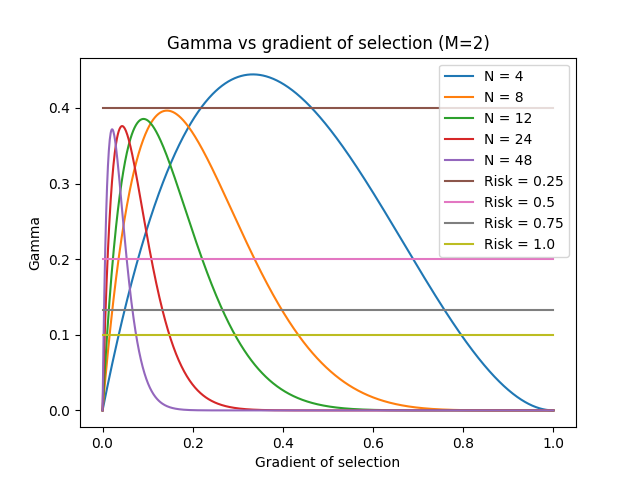
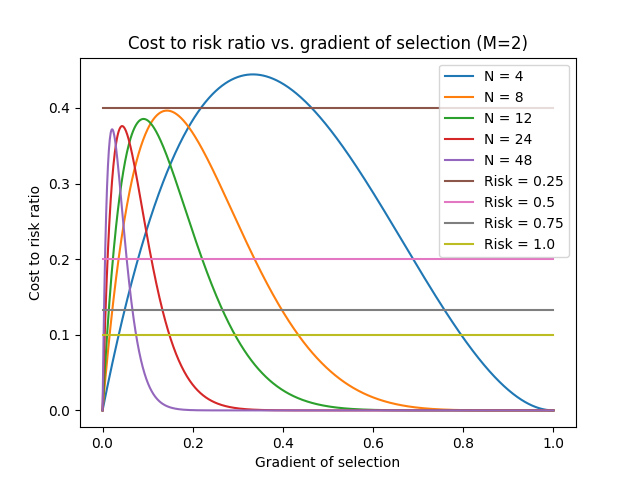
vs gamma

Changed region(s): [[0.1875, 0.0625, 0.8125, 0.125], [0.0312, 0.375, 0.0625, 0.625]]

diff --git a/main.py b/main.py
@@ -686,8 +686,8 @@ def evolution_gamma_with_gradient_of_selection(game = "SH", mode = "N=6"):
 
     plt.legend()
     plt.xlabel('Gradient of selection')
-    plt.ylabel('Gamma')
-    plt.title(f'Gamma vs gradient of selection ({mode})')
+    plt.ylabel('Cost to risk ratio')
+    plt.title(f'Cost to risk ratio vs. gradient of selection ({mode})')
 
     plt.savefig(f'Plots/{game}/gamma_vs_gradient_of_selection_{mode.replace("/", "-")}.png') 
     #plt.show()
